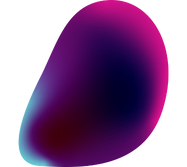
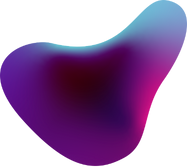
chore: updating hero section

diff --git a/app/page.js b/app/page.js
@@ -1,113 +1,10 @@
-import Image from 'next/image'
+import Image from "next/image";
+import Hero from "@/components/Hero";
 
 export default function Home() {
   return (
-    <main className="flex min-h-screen flex-col items-center justify-between p-24">
-      <div className="z-10 max-w-5xl w-full items-center justify-between font-mono text-sm lg:flex">
-        <p className="fixed left-0 top-0 flex w-full justify-center border-b border-gray-300 bg-gradient-to-b from-zinc-200 pb-6 pt-8 backdrop-blur-2xl dark:border-neutral-800 dark:bg-zinc-800/30 dark:from-inherit lg:static lg:w-auto  lg:rounded-xl lg:border lg:bg-gray-200 lg:p-4 lg:dark:bg-zinc-800/30">
-          Get started by editing&nbsp;
-          <code className="font-mono font-bold">app/page.js</code>
-        </p>
-        <div className="fixed bottom-0 left-0 flex h-48 w-full items-end justify-center bg-gradient-to-t from-white via-white dark:from-black dark:via-black lg:static lg:h-auto lg:w-auto lg:bg-none">
-          <a
-            className="pointer-events-none flex place-items-center gap-2 p-8 lg:pointer-events-auto lg:p-0"
-            href="https://vercel.com?utm_source=create-next-app&utm_medium=appdir-template&utm_campaign=create-next-app"
-            target="_blank"
-            rel="noopener noreferrer"
-          >
-            By{' '}
-            <Image
-              src="/vercel.svg"
-              alt="Vercel Logo"
-              className="dark:invert"
-              width={100}
-              height={24}
-              priority
-            />
-          </a>
-        </div>
-      </div>
-
-      <div className="relative flex place-items-center before:absolute before:h-[300px] before:w-[480px] before:-translate-x-1/2 before:rounded-full before:bg-gradient-radial before:from-white before:to-transparent before:blur-2xl before:content-[''] after:absolute after:-z-20 after:h-[180px] after:w-[240px] after:translate-x-1/3 after:bg-gradient-conic after:from-sky-200 after:via-blue-200 after:blur-2xl after:content-[''] before:dark:bg-gradient-to-br before:dark:from-transparent before:dark:to-blue-700 before:dark:opacity-10 after:dark:from-sky-900 after:dark:via-[#0141ff] after:dark:opacity-40 before:lg:h-[360px] z-[-1]">
-        <Image
-          className="relative dark:drop-shadow-[0_0_0.3rem_#ffffff70] dark:invert"
-          src="/next.svg"
-          alt="Next.js Logo"
-          width={180}
-          height={37}
-          priority
-        />
-      </div>
-
-      <div className="mb-32 grid text-center lg:max-w-5xl lg:w-full lg:mb-0 lg:grid-cols-4 lg:text-left">
-        <a
-          href="https://nextjs.org/docs?utm_source=create-next-app&utm_medium=appdir-template&utm_campaign=create-next-app"
-          className="group rounded-lg border border-transparent px-5 py-4 transition-colors hover:border-gray-300 hover:bg-gray-100 hover:dark:border-neutral-700 hover:dark:bg-neutral-800/30"
-          target="_blank"
-          rel="noopener noreferrer"
-        >
-          <h2 className={`mb-3 text-2xl font-semibold`}>
-            Docs{' '}
-            <span className="inline-block transition-transform group-hover:translate-x-1 motion-reduce:transform-none">
-              -&gt;
-            </span>
-          </h2>
-          <p className={`m-0 max-w-[30ch] text-sm opacity-50`}>
-            Find in-depth information about Next.js features and API.
-          </p>
-        </a>
-
-        <a
-          href="https://nextjs.org/learn?utm_source=create-next-app&utm_medium=appdir-template-tw&utm_campaign=create-next-app"
-          className="group rounded-lg border border-transparent px-5 py-4 transition-colors hover:border-gray-300 hover:bg-gray-100 hover:dark:border-neutral-700 hover:dark:bg-neutral-800 hover:dark:bg-opacity-30"
-          target="_blank"
-          rel="noopener noreferrer"
-        >
-          <h2 className={`mb-3 text-2xl font-semibold`}>
-            Learn{' '}
-            <span className="inline-block transition-transform group-hover:translate-x-1 motion-reduce:transform-none">
-              -&gt;
-            </span>
-          </h2>
-          <p className={`m-0 max-w-[30ch] text-sm opacity-50`}>
-            Learn about Next.js in an interactive course with&nbsp;quizzes!
-          </p>
-        </a>
-
-        <a
-          href="https://vercel.com/templates?framework=next.js&utm_source=create-next-app&utm_medium=appdir-template&utm_campaign=create-next-app"
-          className="group rounded-lg border border-transparent px-5 py-4 transition-colors hover:border-gray-300 hover:bg-gray-100 hover:dark:border-neutral-700 hover:dark:bg-neutral-800/30"
-          target="_blank"
-          rel="noopener noreferrer"
-        >
-          <h2 className={`mb-3 text-2xl font-semibold`}>
-            Templates{' '}
-            <span className="inline-block transition-transform group-hover:translate-x-1 motion-reduce:transform-none">
-              -&gt;
-            </span>
-          </h2>
-          <p className={`m-0 max-w-[30ch] text-sm opacity-50`}>
-            Explore the Next.js 13 playground.
-          </p>
-        </a>
-
-        <a
-          href="https://vercel.com/new?utm_source=create-next-app&utm_medium=appdir-template&utm_campaign=create-next-app"
-          className="group rounded-lg border border-transparent px-5 py-4 transition-colors hover:border-gray-300 hover:bg-gray-100 hover:dark:border-neutral-700 hover:dark:bg-neutral-800/30"
-          target="_blank"
-          rel="noopener noreferrer"
-        >
-          <h2 className={`mb-3 text-2xl font-semibold`}>
-            Deploy{' '}
-            <span className="inline-block transition-transform group-hover:translate-x-1 motion-reduce:transform-none">
-              -&gt;
-            </span>
-          </h2>
-          <p className={`m-0 max-w-[30ch] text-sm opacity-50`}>
-            Instantly deploy your Next.js site to a shareable URL with Vercel.
-          </p>
-        </a>
-      </div>
+    <main>
+      <Hero />
     </main>
-  )
+  );
 }

diff --git a/app/globals.css b/app/globals.css
@@ -25,3 +25,93 @@ body {
     )
     rgb(var(--background-start-rgb));
 }
+
+.hero {
+  background-image: url("/img/bg.png");
+  background-size: cover;
+  background-position: center;
+  background-repeat: no-repeat;
+  height: 100vh;
+}
+.hero img {
+  position: absolute;
+  width: 35vw;
+}
+.hero img:nth-child(1) {
+  top: -25vh;
+  left: -30vw;
+  animation: imgFloat1 3s ease-in-out infinite alternate;
+}
+.hero img:nth-child(2) {
+  top: -30vh;
+  right: -20vw;
+  animation: imgFloat2 3s ease-in-out infinite alternate;
+  animation-delay: 3s;
+}
+.hero img:nth-child(3) {
+  bottom: -30vh;
+  left: -20vw;
+  animation: imgFloat3 3s ease-in-out infinite alternate;
+  animation-delay: 2s;
+}
+.hero img:nth-child(4) {
+  bottom: -20vw;
+  right: -20vw;
+  animation: imgFloat4 3s ease-in-out infinite alternate;
+}
+
+@keyframes imgFloat1 {
+  0% {
+    top: -25vh;
+  }
+  100% {
+    top: -15vh;
+  }
+}
+
+@keyframes imgFloat2 {
+  0% {
+    top: -30vh;
+  }
+
+  100% {
+    top: -20vh;
+  }
+}
+
+@keyframes imgFloat3 {
+  0% {
+    left: -20vw;
+  }
+
+  100% {
+    left: -30vw;
+  }
+}
+
+@keyframes imgFloat4 {
+  0% {
+    bottom: -20vw;
+    right: -20vw;
+  }
+
+  100% {
+    bottom: -15vw;
+    right: -10vw;
+  }
+}
+
+.bounce {
+  animation: bounceAnimation 2s ease-in-out infinite alternate;
+}
+@keyframes bounceAnimation {
+  0% {
+    -webkit-transform: translate(0, 0);
+    transform: translate(0, 0);
+  }
+
+  100% {
+    -webkit-transform: translate(0, 10px);
+    transform: translate(0, 10px);
+  }
+}

diff --git a/components/Hero.js b/components/Hero.js
@@ -1,0 +1,31 @@
+import React from "react";
+
+import RandomImage from "@/components/RandomImage";
+import { FaAngleDown } from "react-icons/fa6";
+
+const Hero = () => {
+  return (
+    <div className="hero min-h-screen w-screen relative flex flex-col justify-center items-center overflow-hidden">
+      <RandomImage classes="img1" />
+      <RandomImage classes="img2" />
+      <RandomImage classes="img3" />
+      <RandomImage classes="img4" />
+
+      <span className="text-3xl md:text-4xl italic w-fit pb-3 font-bold">
+        <span className="text-[#480440]">Data AOS Library</span> Clone
+      </span>
+      <span className="text-xl md:text-2xl text-center w-fit">
+        - Animate on Scroll Library
+      </span>
+
+      <p className="text-xl text-center absolute bottom-20">
+        <div>Scroll Down</div>
+        <div className="bounce flex justify-center text-red">
+          <FaAngleDown />
+        </div>
+      </p>
+    </div>
+  );
+};
+
+export default Hero;

diff --git a/components/RandomImage.js b/components/RandomImage.js
@@ -1,0 +1,14 @@
+import React from "react";
+import Image from "next/image";
+
+const randomNumberGenerator = (min, max) => {
+  return Math.floor(Math.random() * (max - min) + min);
+};
+
+const RandomImage = ({ classes }) => {
+  return (
+    <img src={`/img/${randomNumberGenerator(1, 8)}.png`} className={classes} />
+  );
+};
+
+export default RandomImage;
